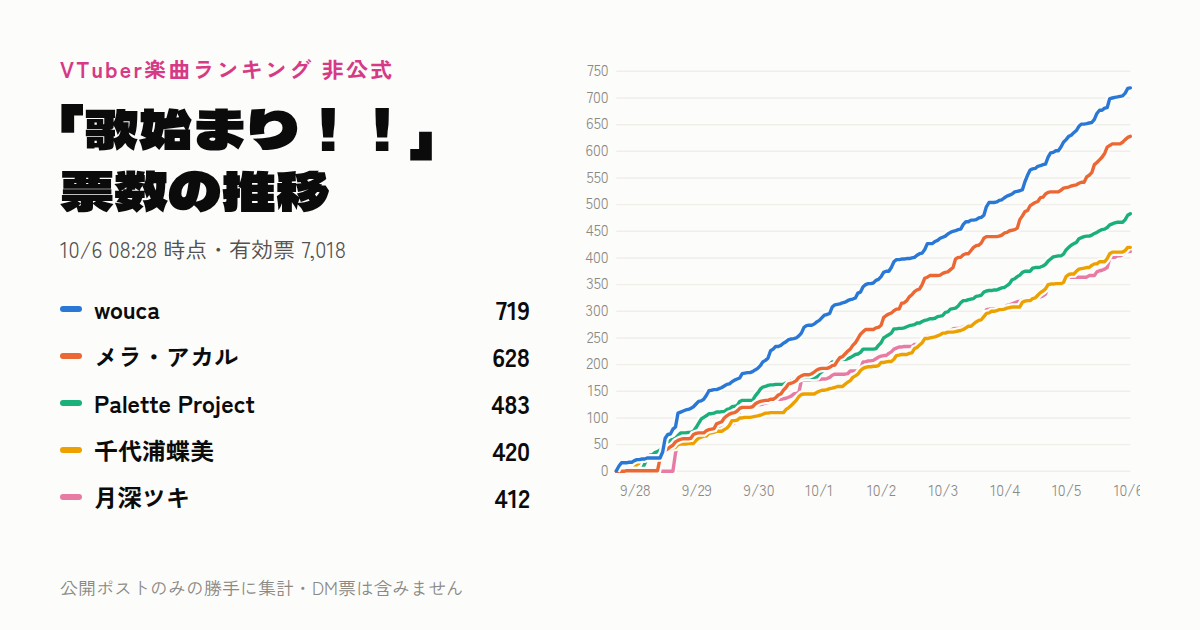
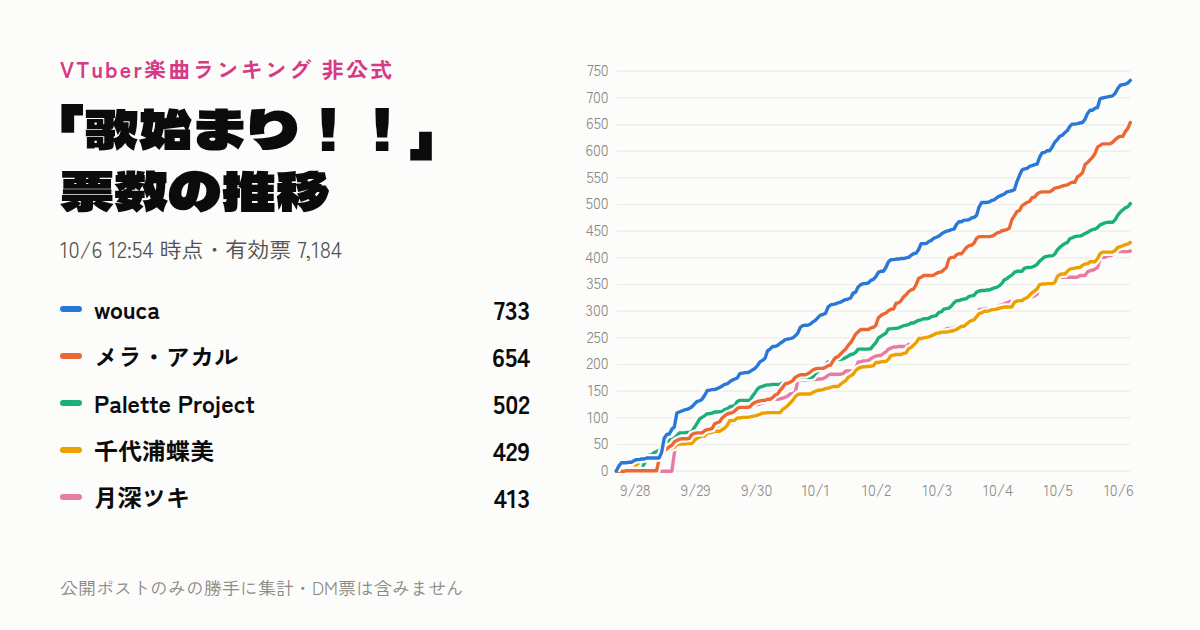
chore: 投票データと推移ページを自動更新

diff --git a/public/trend.html b/public/trend.html
@@ -4,10 +4,10 @@
 <meta name="viewport" content="width=device-width, initial-scale=1, viewport-fit=cover">
 <meta name="description" content="VTuber楽曲ランキング「歌始まり！！」の公開ポスト票を公式ルールで数えた非公式集計。上位曲の票数推移と日別票数。">
 <meta property="og:title" content="「歌始まり！！」票数の推移（非公式）">
-<meta property="og:image" content="https://mc-ranking-utahajimari.trapplejp.workers.dev/trend-og.png?v=10060828">
+<meta property="og:image" content="https://mc-ranking-utahajimari.trapplejp.workers.dev/trend-og.png?v=10061254">
 <meta property="og:url" content="https://mc-ranking-utahajimari.trapplejp.workers.dev/trend">
 <meta property="og:type" content="website">
-<meta property="og:description" content="10/6 08:28時点・公開ポストのみの勝手に集計。上位曲の票数推移と日別票数。">
+<meta property="og:description" content="10/6 12:54時点・公開ポストのみの勝手に集計。上位曲の票数推移と日別票数。">
 <meta name="twitter:card" content="summary_large_image">
 <style>body{margin:0}</style>
 <title>歌始まり 票数推移</title>
@@ -101,7 +101,7 @@ td .sw { display: inline-block; width: 10px; height: 3px; border-radius: 2px; ma
 </div>
 
 <script>
-const D = {"hours": ["2026-09-28T00:00", "2026-09-28T01:00", "2026-09-28T02:00", "2026-09-28T03:00", "2026-09-28T04:00", "2026-09-28T05:00", "2026-09-28T06:00", "2026-09-28T07:00", "2026-09-28T08:00", "2026-09-28T09:00", "2026-09-28T10:00", "2026-09-28T11:00", "2026-09-28T12:00", "2026-09-28T13:00", "2026-09-28T14:00", "2026-09-28T15:00", "2026-09-28T16:00", "2026-09-28T17:00", "2026-09-28T18:00", "2026-09-28T19:00", "2026-09-28T20:00", "2026-09-28T21:00", "2026-09-28T22:00", "2026-09-28T23:00", "2026-09-29T00:00", "2026-09-29T01:00", "2026-09-29T02:00", "2026-09-29T03:00", "2026-09-29T04:00", "2026-09-29T05:00", "2026-09-29T06:00", "2026-09-29T07:00", "2026-09-29T08:00", "2026-09-29T09:00", "2026-09-29T10:00", "2026-09-29T11:00", "2026-09-29T12:00", "2026-09-29T13:00", "2026-09-29T14:00", "2026-09-29T15:00", "2026-09-29T16:00", "2026-09-29T17:00", "2026-09-29T18:00", "2026-09-29T19:00", "2026-09-29T20:00", "2026-09-29T21:00", "2026-09-29T22:00", "2026-09-29T23:00", "2026-09-30T00:00", "2026-09-30T01:00", "2026-09-30T02:00", "2026-09-30T03:00", "2026-09-30T04:00", "2026-09-30T05:00", "2026-09-30T06:00", "2026-09-30T07:00", "2026-09-30T08:00", "2026-09-30T09:00", "2026-09-30T10:00", "2026-09-30T11:00", "2026-09-30T12:00", "2026-09-30T13:00", "2026-09-30T14:00", "2026-09-30T15:00", "2026-09-30T16:00", "2026-09-30T17:00", "2026-09-30T18:00", "2026-09-30T19:00", "2026-09-30T20:00", "2026-09-30T21:00", "2026-09-30T22:00", "2026-09-30T23:00", "2026-10-01T00:00", "2026-10-01T01:00", "2026-10-01T02:00", "2026-10-01T03:00", "2026-10-01T04:00", "2026-10-01T05:00", "2026-10-01T06:00", "2026-10-01T07:00", "2026-10-01T08:00", "2026-10-01T09:00", "2026-10-01T10:00", "2026-10-01T11:00", "2026-10-01T12:00", "2026-10-01T13:00", "2026-10-01T14:00", "2026-10-01T15:00", "2026-10-01T16:00", "2026-10-01T17:00", "2026-10-01T18:00", "2026-10-01T19:00", "2026-10-01T20:00", "2026-10-01T21:00", "2026-10-01T22:00", "2026-10-01T23:00", "2026-10-02T00:00", "2026-10-02T01:00", "2026-10-02T02:00", "2026-10-02T03:00", "2026-10-02T04:00", "2026-10-02T05:00", "2026-10-02T06:00", "2026-10-02T07:00", "2026-10-02T08:00", "2026-10-02T09:00", "2026-10-02T10:00", "2026-10-02T11:00", "2026-10-02T12:00", "2026-10-02T13:00", "2026-10-02T14:00", "2026-10-02T15:00", "2026-10-02T16:00", "2026-10-02T17:00", "2026-10-02T18:00", "2026-10-02T19:00", "2026-10-02T20:00", "2026-10-02T21:00", "2026-10-02T22:00", "2026-10-02T23:00", "2026-10-03T00:00", "2026-10-03T01:00", "2026-10-03T02:00", "2026-10-03T03:00", "2026-10-03T04:00", "2026-10-03T05:00", "2026-10-03T06:00", "2026-10-03T07:00", "2026-10-03T08:00", "2026-10-03T09:00", "2026-10-03T10:00", "2026-10-03T11:00", "2026-10-03T12:00", "2026-10-03T13:00", "2026-10-03T14:00", "2026-10-03T15:00", "2026-10-03T16:00", "2026-10-03T17:00", "2026-10-03T18:00", "2026-10-03T19:00", "2026-10-03T20:00", "2026-10-03T21:00", "2026-10-03T22:00", "2026-10-03T23:00", "2026-10-04T00:00", "2026-10-04T01:00", "2026-10-04T02:00", "2026-10-04T03:00", "2026-10-04T04:00", "2026-10-04T05:00", "2026-10-04T06:00", "2026-10-04T07:00", "2026-10-04T08:00", "2026-10-04T09:00", "2026-10-04T10:00", "2026-10-04T11:00", "2026-10-04T12:00", "2026-10-04T13:00", "2026-10-04T14:00", "2026-10-04T15:00", "2026-10-04T16:00", "2026-10-04T17:00", "2026-10-04T18:00", "2026-10-04T19:00", "2026-10-04T20:00", "2026-10-04T21:00", "2026-10-04T22:00", "2026-10-04T23:00", "2026-10-05T00:00", "2026-10-05T01:00", "2026-10-05T02:00", "2026-10-05T03:00", "2026-10-05T04:00", "2026-10-05T05:00", "2026-10-05T06:00", "2026-10-05T07:00", "2026-10-05T08:00", "2026-10-05T09:00", "2026-10-05T10:00", "2026-10-05T11:00", "2026-10-05T12:00", "2026-10-05T13:00", "2026-10-05T14:00", "2026-10-05T15:00", "2026-10-05T16:00", "2026-10-05T17:00", "2026-10-05T18:00", "2026-10-05T19:00", "2026-10-05T20:00", "2026-10-05T21:00", "2026-10-05T22:00", "2026-10-05T23:00", "2026-10-06T00:00", "2026-10-06T01:00", "2026-10-06T02:00", "2026-10-06T03:00", "2026-10-06T04:00", "2026-10-06T05:00", "2026-10-06T06:00", "2026-10-06T07:00", "2026-10-06T08:00"], "series": [{"artist": "wouca", "song": "Romantica", "cum": [1, 10, 16, 16, 16, 17, 17, 20, 22, 22, 23, 23, 25, 25, 25, 25, 25, 25, 36, 62, 69, 70, 79, 83, 109, 111, 113, 115, 116, 118, 121, 126, 131, 132, 135, 142, 151, 152, 153, 153, 155, 157, 160, 163, 164, 168, 171, 173, 175, 183, 184, 185, 185, 187, 190, 193, 198, 205, 208, 212, 226, 229, 234, 234, 236, 240, 243, 247, 248, 249, 250, 254, 259, 270, 273, 274, 274, 276, 280, 283, 288, 293, 294, 296, 308, 312, 313, 314, 316, 317, 320, 322, 323, 325, 334, 336, 346, 350, 352, 352, 353, 358, 360, 365, 373, 375, 375, 382, 393, 397, 397, 398, 398, 399, 399, 400, 401, 405, 408, 409, 416, 427, 427, 427, 431, 433, 437, 439, 441, 445, 448, 450, 451, 453, 454, 463, 468, 468, 471, 471, 472, 475, 476, 480, 496, 504, 504, 504, 505, 508, 509, 513, 516, 518, 520, 524, 525, 526, 528, 543, 555, 565, 567, 568, 572, 573, 575, 576, 589, 597, 598, 601, 601, 608, 617, 622, 628, 630, 635, 639, 647, 651, 651, 652, 653, 654, 660, 671, 677, 677, 681, 682, 699, 700, 701, 702, 703, 704, 709, 718, 719]}, {"artist": "メラ・アカル", "song": "僕とあなたと", "cum": [0, 0, 0, 0, 1, 1, 1, 1, 1, 1, 1, 1, 1, 1, 1, 1, 1, 24, 32, 39, 42, 46, 49, 55, 58, 60, 61, 61, 61, 62, 69, 71, 72, 72, 72, 76, 78, 79, 80, 89, 91, 93, 100, 104, 107, 109, 110, 113, 118, 120, 120, 120, 120, 121, 126, 129, 131, 132, 133, 133, 135, 135, 138, 143, 145, 152, 157, 164, 165, 167, 170, 176, 179, 181, 181, 181, 183, 186, 190, 192, 193, 193, 193, 195, 198, 199, 207, 213, 215, 220, 225, 229, 236, 241, 249, 257, 262, 266, 266, 266, 266, 269, 270, 274, 288, 292, 295, 297, 301, 304, 304, 315, 316, 320, 327, 331, 337, 340, 342, 350, 362, 364, 367, 367, 367, 367, 368, 371, 373, 374, 378, 382, 398, 401, 401, 406, 408, 408, 414, 420, 423, 424, 428, 437, 440, 440, 440, 440, 440, 441, 443, 447, 448, 451, 452, 453, 456, 472, 479, 487, 489, 498, 501, 504, 506, 513, 514, 520, 523, 524, 524, 524, 524, 527, 531, 532, 533, 535, 536, 537, 540, 542, 542, 552, 555, 560, 575, 579, 584, 589, 596, 608, 611, 614, 614, 614, 614, 617, 622, 626, 628]}, {"artist": "Palette Project", "song": "ギミラビ", "cum": [0, 1, 1, 1, 1, 1, 1, 1, 1, 2, 3, 14, 24, 30, 31, 35, 37, 40, 44, 48, 53, 58, 60, 62, 67, 72, 72, 72, 73, 73, 75, 82, 90, 98, 101, 104, 108, 108, 109, 111, 111, 112, 112, 116, 117, 121, 122, 123, 131, 133, 133, 133, 133, 133, 141, 147, 154, 158, 159, 161, 162, 162, 163, 163, 163, 163, 166, 167, 169, 171, 171, 173, 175, 176, 176, 176, 176, 176, 177, 183, 187, 190, 195, 200, 205, 205, 208, 209, 210, 210, 211, 213, 216, 219, 220, 223, 229, 229, 229, 229, 229, 230, 236, 241, 250, 253, 256, 259, 267, 267, 268, 268, 269, 271, 273, 274, 275, 278, 278, 281, 283, 284, 286, 286, 287, 290, 291, 292, 298, 299, 304, 305, 306, 310, 316, 320, 320, 322, 323, 324, 328, 329, 330, 336, 338, 339, 339, 340, 340, 342, 344, 345, 348, 352, 359, 361, 365, 368, 373, 375, 375, 375, 381, 382, 382, 383, 385, 388, 394, 398, 402, 403, 404, 404, 407, 415, 420, 424, 427, 429, 436, 438, 440, 441, 441, 443, 446, 448, 451, 453, 454, 457, 462, 464, 466, 467, 467, 467, 472, 480, 483]}, {"artist": "千代浦蝶美", "song": "Butterfly Dream", "cum": [3, 4, 4, 4, 4, 4, 4, 6, 13, 15, 16, 19, 29, 29, 29, 29, 30, 32, 32, 38, 39, 41, 44, 45, 50, 51, 51, 51, 52, 52, 52, 58, 62, 64, 66, 66, 71, 72, 73, 75, 75, 75, 78, 81, 86, 95, 95, 96, 100, 100, 101, 101, 101, 102, 103, 104, 105, 107, 109, 109, 110, 110, 110, 110, 110, 110, 116, 119, 123, 128, 133, 140, 144, 145, 145, 145, 145, 145, 148, 150, 152, 152, 153, 155, 156, 157, 159, 159, 159, 163, 167, 170, 176, 179, 182, 189, 193, 195, 196, 196, 197, 197, 198, 204, 204, 205, 206, 206, 210, 217, 218, 219, 219, 219, 221, 222, 230, 232, 237, 241, 249, 249, 250, 251, 252, 254, 256, 259, 259, 261, 261, 261, 262, 263, 264, 266, 269, 272, 272, 276, 280, 283, 284, 290, 296, 297, 300, 300, 301, 303, 303, 304, 306, 307, 308, 308, 308, 308, 317, 319, 320, 320, 324, 325, 330, 335, 338, 342, 350, 351, 351, 352, 352, 352, 354, 365, 369, 370, 370, 375, 379, 380, 381, 382, 382, 386, 389, 389, 393, 393, 393, 399, 408, 411, 411, 411, 411, 411, 414, 420, 420]}, {"artist": "月深ツキ", "song": "月祀り", "cum": [0, 0, 0, 0, 0, 0, 0, 0, 0, 0, 0, 0, 0, 0, 0, 0, 0, 0, 0, 0, 0, 0, 0, 34, 52, 56, 57, 58, 60, 60, 61, 67, 67, 67, 72, 75, 77, 78, 80, 80, 80, 81, 83, 84, 85, 87, 91, 92, 117, 119, 122, 122, 123, 123, 124, 125, 125, 126, 128, 129, 133, 134, 135, 135, 135, 136, 137, 139, 141, 145, 146, 148, 170, 171, 171, 171, 172, 172, 172, 172, 173, 173, 174, 176, 180, 182, 182, 182, 182, 182, 183, 188, 188, 188, 189, 193, 205, 205, 207, 207, 208, 211, 214, 216, 217, 217, 221, 224, 229, 231, 233, 233, 234, 234, 234, 234, 238, 238, 239, 241, 251, 253, 253, 254, 254, 255, 258, 260, 262, 262, 264, 267, 268, 268, 268, 271, 273, 273, 274, 274, 278, 280, 282, 285, 303, 304, 305, 305, 305, 306, 306, 306, 311, 312, 314, 316, 318, 319, 321, 321, 322, 322, 322, 323, 326, 327, 329, 332, 346, 352, 352, 353, 353, 354, 357, 362, 364, 364, 364, 364, 364, 364, 364, 364, 367, 367, 367, 374, 376, 377, 379, 382, 400, 401, 401, 404, 404, 406, 410, 412, 412]}, {"artist": "ときのそら", "song": "決意のソラへ", "cum": [1, 3, 3, 3, 4, 5, 9, 11, 13, 13, 14, 14, 17, 18, 19, 19, 19, 19, 21, 22, 23, 26, 26, 29, 30, 30, 31, 31, 32, 34, 37, 41, 47, 48, 51, 51, 52, 52, 52, 54, 55, 55, 56, 57, 58, 60, 62, 64, 65, 66, 66, 66, 68, 70, 72, 76, 81, 81, 83, 83, 84, 85, 85, 85, 85, 85, 86, 87, 87, 91, 93, 97, 98, 98, 98, 98, 100, 102, 104, 109, 109, 109, 111, 113, 116, 117, 119, 119, 119, 119, 121, 122, 123, 125, 126, 127, 127, 128, 128, 128, 129, 130, 135, 140, 141, 144, 147, 147, 148, 149, 149, 149, 151, 154, 154, 155, 157, 159, 160, 162, 162, 163, 163, 163, 165, 167, 168, 171, 172, 175, 177, 179, 180, 182, 184, 185, 185, 185, 186, 187, 188, 192, 192, 196, 196, 198, 198, 198, 199, 201, 202, 204, 207, 207, 207, 209, 209, 211, 213, 213, 213, 216, 218, 221, 221, 221, 224, 225, 227, 228, 228, 228, 230, 233, 239, 245, 247, 248, 250, 250, 252, 252, 252, 252, 252, 252, 254, 256, 260, 264, 265, 266, 266, 267, 267, 267, 268, 270, 272, 282, 283]}, {"artist": "陽月るるふ", "song": "アヲイチズ", "cum": [0, 14, 14, 16, 16, 16, 18, 19, 21, 21, 21, 21, 21, 21, 21, 22, 22, 24, 25, 28, 29, 30, 31, 32, 40, 42, 43, 43, 43, 44, 48, 48, 48, 48, 48, 48, 48, 49, 49, 49, 50, 52, 52, 61, 61, 61, 62, 63, 70, 71, 71, 72, 72, 73, 74, 78, 78, 78, 78, 79, 83, 83, 83, 84, 85, 85, 86, 88, 88, 90, 91, 96, 101, 106, 107, 108, 110, 110, 110, 112, 113, 113, 113, 113, 115, 115, 115, 117, 118, 118, 118, 119, 119, 120, 124, 126, 131, 134, 135, 135, 136, 138, 140, 141, 143, 143, 145, 145, 150, 150, 150, 151, 151, 151, 151, 151, 151, 151, 154, 156, 161, 161, 163, 164, 164, 164, 164, 166, 169, 169, 169, 173, 175, 175, 177, 177, 177, 177, 179, 179, 179, 179, 183, 184, 186, 188, 189, 190, 191, 192, 192, 194, 195, 196, 197, 198, 198, 202, 203, 203, 204, 204, 205, 206, 206, 209, 214, 216, 220, 226, 226, 226, 226, 226, 228, 229, 232, 234, 234, 235, 236, 236, 236, 236, 236, 239, 239, 239, 239, 244, 252, 254, 261, 263, 263, 265, 266, 268, 269, 270, 270]}, {"artist": "凪乃ましろ", "song": "波音のプレリュード", "cum": [0, 3, 5, 6, 6, 6, 10, 12, 14, 17, 17, 17, 20, 21, 22, 22, 22, 23, 24, 27, 28, 30, 30, 32, 34, 35, 35, 35, 35, 35, 35, 39, 43, 44, 44, 44, 46, 47, 47, 47, 48, 48, 48, 48, 51, 53, 58, 58, 59, 59, 59, 60, 60, 60, 60, 63, 65, 65, 65, 66, 69, 70, 70, 70, 71, 71, 71, 72, 74, 78, 80, 81, 84, 85, 85, 86, 86, 86, 87, 88, 90, 94, 94, 94, 94, 95, 96, 96, 96, 96, 97, 98, 102, 102, 102, 102, 103, 105, 106, 106, 106, 106, 108, 110, 111, 113, 115, 117, 117, 118, 118, 118, 119, 119, 120, 121, 122, 125, 126, 127, 127, 127, 127, 129, 129, 129, 131, 132, 132, 135, 139, 142, 143, 144, 145, 145, 145, 145, 145, 150, 150, 153, 153, 154, 155, 156, 157, 157, 157, 157, 159, 159, 161, 165, 165, 166, 166, 167, 167, 167, 167, 167, 168, 169, 169, 172, 172, 173, 175, 178, 180, 181, 181, 181, 182, 187, 188, 190, 192, 193, 193, 193, 194, 194, 194, 194, 194, 195, 196, 199, 202, 203, 204, 204, 207, 209, 209, 211, 212, 212, 212]}], "days": ["9/28", "9/29", "9/30", "10/1", "10/2", "10/3", "10/4", "10/5", "10/6"], "table": [{"rank": 1, "artist": "wouca", "song": "Romantica", "total": 719, "days": [83, 90, 81, 82, 73, 71, 96, 106, 37]}, {"rank": 2, "artist": "メラ・アカル", "song": "僕とあなたと", "total": 628, "days": [55, 58, 63, 81, 93, 87, 83, 88, 20]}, {"rank": 3, "artist": "Palette Project", "song": "ギミラビ", "total": 483, "days": [62, 61, 50, 50, 58, 55, 52, 69, 26]}, {"rank": 4, "artist": "千代浦蝶美", "song": "Butterfly Dream", "total": 420, "days": [45, 51, 44, 49, 52, 49, 52, 57, 21]}, {"rank": 5, "artist": "月深ツキ", "song": "月祀り", "total": 412, "days": [34, 58, 56, 45, 48, 44, 47, 50, 30]}, {"rank": 6, "artist": "ときのそら", "song": "決意のソラへ", "total": 283, "days": [29, 35, 33, 30, 35, 34, 29, 41, 17]}, {"rank": 7, "artist": "陽月るるふ", "song": "アヲイチズ", "total": 270, "days": [32, 31, 33, 30, 30, 28, 32, 38, 16]}, {"rank": 8, "artist": "凪乃ましろ", "song": "波音のプレリュード", "total": 212, "days": [32, 26, 23, 21, 25, 27, 19, 30, 9]}, {"rank": 9, "artist": "我部りえる", "song": "きみはわたしの", "total": 212, "days": [16, 18, 30, 29, 28, 35, 23, 29, 4]}, {"rank": 10, "artist": "すとらてぃあ", "song": "Last Tear", "total": 192, "days": [17, 28, 28, 21, 22, 19, 19, 30, 8]}, {"rank": 11, "artist": "LiLiN", "song": "readiness", "total": 185, "days": [6, 14, 19, 11, 29, 47, 34, 19, 6]}, {"rank": 12, "artist": "ふぇりしあ", "song": "押し花に、愛を込めて", "total": 176, "days": [10, 28, 17, 26, 14, 26, 24, 25, 6]}, {"rank": 13, "artist": "夢羽ヒメ", "song": "彩光 -イリザシオン-", "total": 161, "days": [20, 21, 19, 21, 15, 18, 15, 22, 10]}, {"rank": 14, "artist": "ヨノ", "song": "Notes of Color", "total": 155, "days": [18, 26, 22, 19, 16, 17, 17, 11, 9]}, {"rank": 15, "artist": "茜音カンナ", "song": "VEIL", "total": 148, "days": [32, 26, 18, 12, 13, 11, 10, 18, 8]}, {"rank": 16, "artist": "みかん先生", "song": "as ü like", "total": 141, "days": [3, 20, 21, 22, 22, 17, 15, 16, 5]}, {"rank": 17, "artist": "MEDA", "song": "覚醒.exe", "total": 118, "days": [7, 15, 17, 17, 15, 14, 14, 14, 5]}, {"rank": 18, "artist": "朝ノ瑠璃", "song": "トモシビライズ", "total": 111, "days": [13, 16, 14, 14, 11, 13, 11, 13, 6]}, {"rank": 19, "artist": "藍海のん、奏みみ", "song": "その手を引いて、その手に引かれて", "total": 104, "days": [0, 5, 13, 15, 17, 18, 14, 17, 5]}, {"rank": 20, "artist": "えのぐ", "song": "決戦前夜", "total": 100, "days": [13, 12, 15, 10, 12, 7, 12, 12, 7]}], "asOf": "10/6 08:28", "counted": 7018, "songs": 142, "theme": "歌始まり！！", "deadline": "10/27 23:59"};
+const D = {"hours": ["2026-09-28T00:00", "2026-09-28T01:00", "2026-09-28T02:00", "2026-09-28T03:00", "2026-09-28T04:00", "2026-09-28T05:00", "2026-09-28T06:00", "2026-09-28T07:00", "2026-09-28T08:00", "2026-09-28T09:00", "2026-09-28T10:00", "2026-09-28T11:00", "2026-09-28T12:00", "2026-09-28T13:00", "2026-09-28T14:00", "2026-09-28T15:00", "2026-09-28T16:00", "2026-09-28T17:00", "2026-09-28T18:00", "2026-09-28T19:00", "2026-09-28T20:00", "2026-09-28T21:00", "2026-09-28T22:00", "2026-09-28T23:00", "2026-09-29T00:00", "2026-09-29T01:00", "2026-09-29T02:00", "2026-09-29T03:00", "2026-09-29T04:00", "2026-09-29T05:00", "2026-09-29T06:00", "2026-09-29T07:00", "2026-09-29T08:00", "2026-09-29T09:00", "2026-09-29T10:00", "2026-09-29T11:00", "2026-09-29T12:00", "2026-09-29T13:00", "2026-09-29T14:00", "2026-09-29T15:00", "2026-09-29T16:00", "2026-09-29T17:00", "2026-09-29T18:00", "2026-09-29T19:00", "2026-09-29T20:00", "2026-09-29T21:00", "2026-09-29T22:00", "2026-09-29T23:00", "2026-09-30T00:00", "2026-09-30T01:00", "2026-09-30T02:00", "2026-09-30T03:00", "2026-09-30T04:00", "2026-09-30T05:00", "2026-09-30T06:00", "2026-09-30T07:00", "2026-09-30T08:00", "2026-09-30T09:00", "2026-09-30T10:00", "2026-09-30T11:00", "2026-09-30T12:00", "2026-09-30T13:00", "2026-09-30T14:00", "2026-09-30T15:00", "2026-09-30T16:00", "2026-09-30T17:00", "2026-09-30T18:00", "2026-09-30T19:00", "2026-09-30T20:00", "2026-09-30T21:00", "2026-09-30T22:00", "2026-09-30T23:00", "2026-10-01T00:00", "2026-10-01T01:00", "2026-10-01T02:00", "2026-10-01T03:00", "2026-10-01T04:00", "2026-10-01T05:00", "2026-10-01T06:00", "2026-10-01T07:00", "2026-10-01T08:00", "2026-10-01T09:00", "2026-10-01T10:00", "2026-10-01T11:00", "2026-10-01T12:00", "2026-10-01T13:00", "2026-10-01T14:00", "2026-10-01T15:00", "2026-10-01T16:00", "2026-10-01T17:00", "2026-10-01T18:00", "2026-10-01T19:00", "2026-10-01T20:00", "2026-10-01T21:00", "2026-10-01T22:00", "2026-10-01T23:00", "2026-10-02T00:00", "2026-10-02T01:00", "2026-10-02T02:00", "2026-10-02T03:00", "2026-10-02T04:00", "2026-10-02T05:00", "2026-10-02T06:00", "2026-10-02T07:00", "2026-10-02T08:00", "2026-10-02T09:00", "2026-10-02T10:00", "2026-10-02T11:00", "2026-10-02T12:00", "2026-10-02T13:00", "2026-10-02T14:00", "2026-10-02T15:00", "2026-10-02T16:00", "2026-10-02T17:00", "2026-10-02T18:00", "2026-10-02T19:00", "2026-10-02T20:00", "2026-10-02T21:00", "2026-10-02T22:00", "2026-10-02T23:00", "2026-10-03T00:00", "2026-10-03T01:00", "2026-10-03T02:00", "2026-10-03T03:00", "2026-10-03T04:00", "2026-10-03T05:00", "2026-10-03T06:00", "2026-10-03T07:00", "2026-10-03T08:00", "2026-10-03T09:00", "2026-10-03T10:00", "2026-10-03T11:00", "2026-10-03T12:00", "2026-10-03T13:00", "2026-10-03T14:00", "2026-10-03T15:00", "2026-10-03T16:00", "2026-10-03T17:00", "2026-10-03T18:00", "2026-10-03T19:00", "2026-10-03T20:00", "2026-10-03T21:00", "2026-10-03T22:00", "2026-10-03T23:00", "2026-10-04T00:00", "2026-10-04T01:00", "2026-10-04T02:00", "2026-10-04T03:00", "2026-10-04T04:00", "2026-10-04T05:00", "2026-10-04T06:00", "2026-10-04T07:00", "2026-10-04T08:00", "2026-10-04T09:00", "2026-10-04T10:00", "2026-10-04T11:00", "2026-10-04T12:00", "2026-10-04T13:00", "2026-10-04T14:00", "2026-10-04T15:00", "2026-10-04T16:00", "2026-10-04T17:00", "2026-10-04T18:00", "2026-10-04T19:00", "2026-10-04T20:00", "2026-10-04T21:00", "2026-10-04T22:00", "2026-10-04T23:00", "2026-10-05T00:00", "2026-10-05T01:00", "2026-10-05T02:00", "2026-10-05T03:00", "2026-10-05T04:00", "2026-10-05T05:00", "2026-10-05T06:00", "2026-10-05T07:00", "2026-10-05T08:00", "2026-10-05T09:00", "2026-10-05T10:00", "2026-10-05T11:00", "2026-10-05T12:00", "2026-10-05T13:00", "2026-10-05T14:00", "2026-10-05T15:00", "2026-10-05T16:00", "2026-10-05T17:00", "2026-10-05T18:00", "2026-10-05T19:00", "2026-10-05T20:00", "2026-10-05T21:00", "2026-10-05T22:00", "2026-10-05T23:00", "2026-10-06T00:00", "2026-10-06T01:00", "2026-10-06T02:00", "2026-10-06T03:00", "2026-10-06T04:00", "2026-10-06T05:00", "2026-10-06T06:00", "2026-10-06T07:00", "2026-10-06T08:00", "2026-10-06T09:00", "2026-10-06T10:00", "2026-10-06T11:00", "2026-10-06T12:00"], "series": [{"artist": "wouca", "song": "Romantica", "cum": [1, 10, 16, 16, 16, 17, 17, 20, 22, 22, 23, 23, 25, 25, 25, 25, 25, 25, 36, 62, 69, 70, 79, 83, 109, 111, 113, 115, 116, 118, 121, 126, 131, 132, 135, 142, 151, 152, 153, 153, 155, 157, 160, 163, 164, 168, 171, 173, 175, 183, 184, 185, 185, 187, 190, 193, 198, 205, 208, 212, 226, 229, 234, 234, 236, 240, 243, 247, 248, 249, 250, 254, 259, 270, 273, 274, 274, 276, 280, 283, 288, 293, 294, 296, 308, 312, 313, 314, 316, 317, 320, 322, 323, 325, 334, 336, 346, 350, 352, 352, 353, 358, 360, 365, 373, 375, 375, 382, 393, 397, 397, 398, 398, 399, 399, 400, 401, 405, 408, 409, 416, 427, 427, 427, 431, 433, 437, 439, 441, 445, 448, 450, 451, 453, 454, 463, 468, 468, 471, 471, 472, 475, 476, 480, 496, 504, 504, 504, 505, 508, 509, 513, 516, 518, 520, 524, 525, 526, 528, 543, 555, 565, 567, 568, 572, 573, 575, 576, 589, 597, 598, 601, 601, 608, 617, 622, 628, 630, 635, 639, 647, 651, 651, 652, 653, 654, 660, 671, 677, 677, 681, 682, 699, 700, 701, 702, 703, 704, 709, 718, 724, 725, 726, 728, 733]}, {"artist": "メラ・アカル", "song": "僕とあなたと", "cum": [0, 0, 0, 0, 1, 1, 1, 1, 1, 1, 1, 1, 1, 1, 1, 1, 1, 24, 32, 39, 42, 46, 49, 55, 58, 60, 61, 61, 61, 62, 69, 71, 72, 72, 72, 76, 78, 79, 80, 89, 91, 93, 100, 104, 107, 109, 110, 113, 118, 120, 120, 120, 120, 121, 126, 129, 131, 132, 133, 133, 135, 135, 138, 143, 145, 152, 157, 164, 165, 167, 170, 176, 179, 181, 181, 181, 183, 186, 190, 192, 193, 193, 193, 195, 198, 199, 207, 213, 215, 220, 225, 229, 236, 241, 249, 257, 262, 266, 266, 266, 266, 269, 270, 274, 288, 292, 295, 297, 301, 304, 304, 315, 316, 320, 327, 331, 337, 340, 342, 350, 362, 364, 367, 367, 367, 367, 368, 371, 373, 374, 378, 382, 398, 401, 401, 406, 408, 408, 414, 420, 423, 424, 428, 437, 440, 440, 440, 440, 440, 441, 443, 447, 448, 451, 452, 453, 456, 472, 479, 487, 489, 498, 501, 504, 506, 513, 514, 520, 523, 524, 524, 524, 524, 527, 531, 532, 533, 535, 536, 537, 540, 542, 542, 552, 555, 560, 575, 579, 584, 589, 596, 608, 611, 614, 614, 614, 614, 617, 622, 626, 628, 628, 637, 643, 654]}, {"artist": "Palette Project", "song": "ギミラビ", "cum": [0, 1, 1, 1, 1, 1, 1, 1, 1, 2, 3, 14, 24, 30, 31, 35, 37, 40, 44, 48, 53, 58, 60, 62, 67, 72, 72, 72, 73, 73, 75, 82, 90, 98, 101, 104, 108, 108, 109, 111, 111, 112, 112, 116, 117, 121, 122, 123, 131, 133, 133, 133, 133, 133, 141, 147, 154, 158, 159, 161, 162, 162, 163, 163, 163, 163, 166, 167, 169, 171, 171, 173, 175, 176, 176, 176, 176, 176, 177, 183, 187, 190, 195, 200, 205, 205, 208, 209, 210, 210, 211, 213, 216, 219, 220, 223, 229, 229, 229, 229, 229, 230, 236, 241, 250, 253, 256, 259, 267, 267, 268, 268, 269, 271, 273, 274, 275, 278, 278, 281, 283, 284, 286, 286, 287, 290, 291, 292, 298, 299, 304, 305, 306, 310, 316, 320, 320, 322, 323, 324, 328, 329, 330, 336, 338, 339, 339, 340, 340, 342, 344, 345, 348, 352, 359, 361, 365, 368, 373, 375, 375, 375, 381, 382, 382, 383, 385, 388, 394, 398, 402, 403, 404, 404, 407, 415, 420, 424, 427, 429, 436, 438, 440, 441, 441, 443, 446, 448, 451, 453, 454, 457, 462, 464, 466, 467, 467, 467, 472, 480, 486, 490, 494, 496, 502]}, {"artist": "千代浦蝶美", "song": "Butterfly Dream", "cum": [3, 4, 4, 4, 4, 4, 4, 6, 13, 15, 16, 19, 29, 29, 29, 29, 30, 32, 32, 38, 39, 41, 44, 45, 50, 51, 51, 51, 52, 52, 52, 58, 62, 64, 66, 66, 71, 72, 73, 75, 75, 75, 78, 81, 86, 95, 95, 96, 100, 100, 101, 101, 101, 102, 103, 104, 105, 107, 109, 109, 110, 110, 110, 110, 110, 110, 116, 119, 123, 128, 133, 140, 144, 145, 145, 145, 145, 145, 148, 150, 152, 152, 153, 155, 156, 157, 159, 159, 159, 163, 167, 170, 176, 179, 182, 189, 193, 195, 196, 196, 197, 197, 198, 204, 204, 205, 206, 206, 210, 217, 218, 219, 219, 219, 221, 222, 230, 232, 237, 241, 249, 249, 250, 251, 252, 254, 256, 259, 259, 261, 261, 261, 262, 263, 264, 266, 269, 272, 272, 276, 280, 283, 284, 290, 296, 297, 300, 300, 301, 303, 303, 304, 306, 307, 308, 308, 308, 308, 317, 319, 320, 320, 324, 325, 330, 335, 338, 342, 350, 351, 351, 352, 352, 352, 354, 365, 369, 370, 370, 375, 379, 380, 381, 382, 382, 386, 389, 389, 393, 393, 393, 399, 408, 411, 411, 411, 411, 411, 414, 420, 421, 423, 425, 426, 429]}, {"artist": "月深ツキ", "song": "月祀り", "cum": [0, 0, 0, 0, 0, 0, 0, 0, 0, 0, 0, 0, 0, 0, 0, 0, 0, 0, 0, 0, 0, 0, 0, 34, 52, 56, 57, 58, 60, 60, 61, 67, 67, 67, 72, 75, 77, 78, 80, 80, 80, 81, 83, 84, 85, 87, 91, 92, 117, 119, 122, 122, 123, 123, 124, 125, 125, 126, 128, 129, 133, 134, 135, 135, 135, 136, 137, 139, 141, 145, 146, 148, 170, 171, 171, 171, 172, 172, 172, 172, 173, 173, 174, 176, 180, 182, 182, 182, 182, 182, 183, 188, 188, 188, 189, 193, 205, 205, 207, 207, 208, 211, 214, 216, 217, 217, 221, 224, 229, 231, 233, 233, 234, 234, 234, 234, 238, 238, 239, 241, 251, 253, 253, 254, 254, 255, 258, 260, 262, 262, 264, 267, 268, 268, 268, 271, 273, 273, 274, 274, 278, 280, 282, 285, 303, 304, 305, 305, 305, 306, 306, 306, 311, 312, 314, 316, 318, 319, 321, 321, 322, 322, 322, 323, 326, 327, 329, 332, 346, 352, 352, 353, 353, 354, 357, 362, 364, 364, 364, 364, 364, 364, 364, 364, 367, 367, 367, 374, 376, 377, 379, 382, 400, 401, 401, 404, 404, 406, 410, 412, 412, 412, 412, 412, 413]}, {"artist": "ときのそら", "song": "決意のソラへ", "cum": [1, 3, 3, 3, 4, 5, 9, 11, 13, 13, 14, 14, 17, 18, 19, 19, 19, 19, 21, 22, 23, 26, 26, 29, 30, 30, 31, 31, 32, 34, 37, 41, 47, 48, 51, 51, 52, 52, 52, 54, 55, 55, 56, 57, 58, 60, 62, 64, 65, 66, 66, 66, 68, 70, 72, 76, 81, 81, 83, 83, 84, 85, 85, 85, 85, 85, 86, 87, 87, 91, 93, 97, 98, 98, 98, 98, 100, 102, 104, 109, 109, 109, 111, 113, 116, 117, 119, 119, 119, 119, 121, 122, 123, 125, 126, 127, 127, 128, 128, 128, 129, 130, 135, 140, 141, 144, 147, 147, 148, 149, 149, 149, 151, 154, 154, 155, 157, 159, 160, 162, 162, 163, 163, 163, 165, 167, 168, 171, 172, 175, 177, 179, 180, 182, 184, 185, 185, 185, 186, 187, 188, 192, 192, 196, 196, 198, 198, 198, 199, 201, 202, 204, 207, 207, 207, 209, 209, 211, 213, 213, 213, 216, 218, 221, 221, 221, 224, 225, 227, 228, 228, 228, 230, 233, 239, 245, 247, 248, 250, 250, 252, 252, 252, 252, 252, 252, 254, 256, 260, 264, 265, 266, 266, 267, 267, 267, 268, 270, 272, 282, 284, 284, 284, 284, 286]}, {"artist": "陽月るるふ", "song": "アヲイチズ", "cum": [0, 14, 14, 16, 16, 16, 18, 19, 21, 21, 21, 21, 21, 21, 21, 22, 22, 24, 25, 28, 29, 30, 31, 32, 40, 42, 43, 43, 43, 44, 48, 48, 48, 48, 48, 48, 48, 49, 49, 49, 50, 52, 52, 61, 61, 61, 62, 63, 70, 71, 71, 72, 72, 73, 74, 78, 78, 78, 78, 79, 83, 83, 83, 84, 85, 85, 86, 88, 88, 90, 91, 96, 101, 106, 107, 108, 110, 110, 110, 112, 113, 113, 113, 113, 115, 115, 115, 117, 118, 118, 118, 119, 119, 120, 124, 126, 131, 134, 135, 135, 136, 138, 140, 141, 143, 143, 145, 145, 150, 150, 150, 151, 151, 151, 151, 151, 151, 151, 154, 156, 161, 161, 163, 164, 164, 164, 164, 166, 169, 169, 169, 173, 175, 175, 177, 177, 177, 177, 179, 179, 179, 179, 183, 184, 186, 188, 189, 190, 191, 192, 192, 194, 195, 196, 197, 198, 198, 202, 203, 203, 204, 204, 205, 206, 206, 209, 214, 216, 220, 226, 226, 226, 226, 226, 228, 229, 232, 234, 234, 235, 236, 236, 236, 236, 236, 239, 239, 239, 239, 244, 252, 254, 261, 263, 263, 265, 266, 268, 269, 270, 270, 270, 270, 271, 272]}, {"artist": "凪乃ましろ", "song": "波音のプレリュード", "cum": [0, 3, 5, 6, 6, 6, 10, 12, 14, 17, 17, 17, 20, 21, 22, 22, 22, 23, 24, 27, 28, 30, 30, 32, 34, 35, 35, 35, 35, 35, 35, 39, 43, 44, 44, 44, 46, 47, 47, 47, 48, 48, 48, 48, 51, 53, 58, 58, 59, 59, 59, 60, 60, 60, 60, 63, 65, 65, 65, 66, 69, 70, 70, 70, 71, 71, 71, 72, 74, 78, 80, 81, 84, 85, 85, 86, 86, 86, 87, 88, 90, 94, 94, 94, 94, 95, 96, 96, 96, 96, 97, 98, 102, 102, 102, 102, 103, 105, 106, 106, 106, 106, 108, 110, 111, 113, 115, 117, 117, 118, 118, 118, 119, 119, 120, 121, 122, 125, 126, 127, 127, 127, 127, 129, 129, 129, 131, 132, 132, 135, 139, 142, 143, 144, 145, 145, 145, 145, 145, 150, 150, 153, 153, 154, 155, 156, 157, 157, 157, 157, 159, 159, 161, 165, 165, 166, 166, 167, 167, 167, 167, 167, 168, 169, 169, 172, 172, 173, 175, 178, 180, 181, 181, 181, 182, 187, 188, 190, 192, 193, 193, 193, 194, 194, 194, 194, 194, 195, 196, 199, 202, 203, 204, 204, 207, 209, 209, 211, 212, 212, 212, 214, 216, 216, 218]}], "days": ["9/28", "9/29", "9/30", "10/1", "10/2", "10/3", "10/4", "10/5", "10/6"], "table": [{"rank": 1, "artist": "wouca", "song": "Romantica", "total": 733, "days": [83, 90, 81, 82, 73, 71, 96, 106, 51]}, {"rank": 2, "artist": "メラ・アカル", "song": "僕とあなたと", "total": 654, "days": [55, 58, 63, 81, 93, 87, 83, 88, 46]}, {"rank": 3, "artist": "Palette Project", "song": "ギミラビ", "total": 502, "days": [62, 61, 50, 50, 58, 55, 52, 69, 45]}, {"rank": 4, "artist": "千代浦蝶美", "song": "Butterfly Dream", "total": 429, "days": [45, 51, 44, 49, 52, 49, 52, 57, 30]}, {"rank": 5, "artist": "月深ツキ", "song": "月祀り", "total": 413, "days": [34, 58, 56, 45, 48, 44, 47, 50, 31]}, {"rank": 6, "artist": "ときのそら", "song": "決意のソラへ", "total": 286, "days": [29, 35, 33, 30, 35, 34, 29, 41, 20]}, {"rank": 7, "artist": "陽月るるふ", "song": "アヲイチズ", "total": 272, "days": [32, 31, 33, 30, 30, 28, 32, 38, 18]}, {"rank": 8, "artist": "凪乃ましろ", "song": "波音のプレリュード", "total": 218, "days": [32, 26, 23, 21, 25, 27, 19, 30, 15]}, {"rank": 9, "artist": "我部りえる", "song": "きみはわたしの", "total": 217, "days": [16, 18, 30, 29, 28, 35, 23, 29, 9]}, {"rank": 10, "artist": "すとらてぃあ", "song": "Last Tear", "total": 202, "days": [17, 28, 28, 21, 22, 19, 19, 30, 18]}, {"rank": 11, "artist": "LiLiN", "song": "readiness", "total": 188, "days": [6, 14, 19, 11, 29, 47, 34, 19, 9]}, {"rank": 12, "artist": "ふぇりしあ", "song": "押し花に、愛を込めて", "total": 180, "days": [10, 28, 17, 26, 14, 26, 24, 25, 10]}, {"rank": 13, "artist": "夢羽ヒメ", "song": "彩光 -イリザシオン-", "total": 164, "days": [20, 21, 19, 21, 15, 18, 15, 22, 13]}, {"rank": 14, "artist": "ヨノ", "song": "Notes of Color", "total": 158, "days": [18, 26, 22, 19, 16, 17, 17, 11, 12]}, {"rank": 15, "artist": "茜音カンナ", "song": "VEIL", "total": 154, "days": [32, 26, 18, 12, 13, 11, 10, 18, 14]}, {"rank": 16, "artist": "みかん先生", "song": "as ü like", "total": 149, "days": [3, 20, 21, 22, 22, 17, 15, 16, 13]}, {"rank": 17, "artist": "MEDA", "song": "覚醒.exe", "total": 123, "days": [7, 15, 17, 17, 15, 14, 14, 14, 10]}, {"rank": 18, "artist": "朝ノ瑠璃", "song": "トモシビライズ", "total": 114, "days": [13, 16, 14, 14, 11, 13, 11, 13, 9]}, {"rank": 19, "artist": "藍海のん、奏みみ", "song": "その手を引いて、その手に引かれて", "total": 105, "days": [0, 5, 13, 15, 17, 18, 14, 17, 6]}, {"rank": 20, "artist": "えのぐ", "song": "決戦前夜", "total": 103, "days": [13, 12, 15, 10, 12, 7, 12, 12, 10]}], "asOf": "10/6 12:54", "counted": 7184, "songs": 142, "theme": "歌始まり！！", "deadline": "10/27 23:59"};
 const COLORS = ["--s1","--s2","--s3","--s4","--s5","--s6","--s7","--s8"].map(v => `var(${v})`);
 const $ = id => document.getElementById(id);
 const esc = s => String(s).replace(/[&<>"]/g, c => ({"&":"&amp;","<":"&lt;",">":"&gt;",'"':"&quot;"}[c]));
